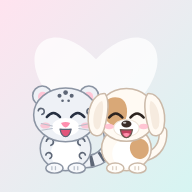
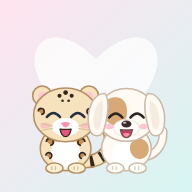
Stage 3: polish pass, and Livvie's new colors
- Livvie now has very light honey fur, black-and-brown rosettes and a
  little pink in her eyes (same drawing, new colors). The home-screen icon
  matches. Mud is a darker brown so it doesn't look like her spots.
- Springy, bouncy feedback on every button, card and close button.
- Little confetti celebrations in both girls' colors on happy moments:
  together moments, finished activities, learned tricks, granted wishes,
  favorite foods and new things appearing.
- Consistent layout: each girl's first button is in the same place in
  every room; on trips the names and the jar stay visible; the fridge
  panel shows whose pet it's for, like the closet and spa.

Claude-Session: https://claude.ai/code/session_017NGWNkHpGDYFDYHWiwXHXr

Changed region(s): [[0.1562, 0.4375, 0.5625, 0.9062], [0.5312, 0.6875, 0.5625, 0.7188]]

diff --git a/index.html b/index.html
@@ -69,43 +69,43 @@
      the script below (and art/README.md).
      ===================================================================== -->
 
-<!-- Livvie the snow leopard -->
+<!-- Livvie the snow leopard: very light honey fur, black and brown rosettes, a little pink in her eyes -->
 <template id="art-livvie">
 <svg class="pet-svg" viewBox="0 0 200 200" aria-hidden="true">
   <g class="tail">
-    <path d="M136 176 C 176 178, 196 146, 186 116 C 180 98, 162 96, 160 110" fill="none" stroke="#8b94a3" stroke-width="27" stroke-linecap="round"/>
-    <path d="M136 176 C 176 178, 196 146, 186 116 C 180 98, 162 96, 160 110" fill="none" stroke="#eef1f6" stroke-width="21" stroke-linecap="round"/>
-    <path d="M136 176 C 176 178, 196 146, 186 116 C 180 98, 162 96, 160 110" fill="none" stroke="#5d6676" stroke-width="21" stroke-dasharray="7 15" stroke-dashoffset="-12"/>
+    <path d="M136 176 C 176 178, 196 146, 186 116 C 180 98, 162 96, 160 110" fill="none" stroke="#b38f63" stroke-width="27" stroke-linecap="round"/>
+    <path d="M136 176 C 176 178, 196 146, 186 116 C 180 98, 162 96, 160 110" fill="none" stroke="#f6e3bd" stroke-width="21" stroke-linecap="round"/>
+    <path d="M136 176 C 176 178, 196 146, 186 116 C 180 98, 162 96, 160 110" fill="none" stroke="#33261e" stroke-width="21" stroke-dasharray="7 15" stroke-dashoffset="-12"/>
   </g>
   <g class="body">
-    <ellipse cx="100" cy="150" rx="50" ry="44" fill="#eef1f6" stroke="#8b94a3" stroke-width="3"/>
+    <ellipse cx="100" cy="150" rx="50" ry="44" fill="#f6e3bd" stroke="#b38f63" stroke-width="3"/>
     <ellipse cx="100" cy="160" rx="29" ry="30" fill="#ffffff"/>
-    <g fill="none" stroke="#5d6676" stroke-width="3.2" stroke-linecap="round">
+    <g fill="#c48f55" stroke="#33261e" stroke-width="3.2" stroke-linecap="round">
       <path d="M62 136 a7 7 0 1 1 9 8"/><path d="M61 163 a6 6 0 1 1 8 7"/>
       <path d="M138 136 a7 7 0 1 0 -9 8"/><path d="M139 163 a6 6 0 1 0 -8 7"/>
     </g>
-    <g fill="#5d6676"><circle cx="76" cy="121" r="2.6"/><circle cx="125" cy="121" r="2.6"/></g>
-    <g class="fluff" fill="#ffffff" stroke="#8b94a3" stroke-width="2.5" stroke-linejoin="round">
+    <g fill="#33261e"><circle cx="76" cy="121" r="2.6"/><circle cx="125" cy="121" r="2.6"/></g>
+    <g class="fluff" fill="#fbefd6" stroke="#b38f63" stroke-width="2.5" stroke-linejoin="round">
       <path d="M52 144 L40 147 L49 152 L40 158 L53 159Z"/><path d="M148 144 L160 147 L151 152 L160 158 L147 159Z"/>
     </g>
   </g>
   <g class="paws">
-    <ellipse cx="78" cy="189" rx="17" ry="10" fill="#f6f8fb" stroke="#8b94a3" stroke-width="3"/>
-    <ellipse cx="122" cy="189" rx="17" ry="10" fill="#f6f8fb" stroke="#8b94a3" stroke-width="3"/>
-    <path d="M73 186 v6 M80 186 v6 M117 186 v6 M124 186 v6" stroke="#b9c0cb" stroke-width="2.5" stroke-linecap="round"/>
+    <ellipse cx="78" cy="189" rx="17" ry="10" fill="#fbefd6" stroke="#b38f63" stroke-width="3"/>
+    <ellipse cx="122" cy="189" rx="17" ry="10" fill="#fbefd6" stroke="#b38f63" stroke-width="3"/>
+    <path d="M73 186 v6 M80 186 v6 M117 186 v6 M124 186 v6" stroke="#d9bf98" stroke-width="2.5" stroke-linecap="round"/>
   </g>
   <g class="head">
-    <circle cx="54" cy="46" r="19" fill="#eef1f6" stroke="#8b94a3" stroke-width="3"/>
-    <circle cx="146" cy="46" r="19" fill="#eef1f6" stroke="#8b94a3" stroke-width="3"/>
+    <circle cx="54" cy="46" r="19" fill="#f6e3bd" stroke="#b38f63" stroke-width="3"/>
+    <circle cx="146" cy="46" r="19" fill="#f6e3bd" stroke="#b38f63" stroke-width="3"/>
     <circle cx="55" cy="48" r="9.5" fill="#ffc6d6"/>
     <circle cx="145" cy="48" r="9.5" fill="#ffc6d6"/>
-    <ellipse cx="100" cy="84" rx="63" ry="53" fill="#eef1f6" stroke="#8b94a3" stroke-width="3"/>
+    <ellipse cx="100" cy="84" rx="63" ry="53" fill="#f6e3bd" stroke="#b38f63" stroke-width="3"/>
     <ellipse cx="100" cy="108" rx="27" ry="18" fill="#ffffff"/>
-    <g fill="#5d6676">
+    <g fill="#33261e">
       <circle cx="88" cy="46" r="4"/><circle cx="100" cy="40" r="4.6"/><circle cx="112" cy="46" r="4"/>
       <circle cx="94" cy="56" r="2.6"/><circle cx="106" cy="56" r="2.6"/>
     </g>
-    <g fill="none" stroke="#5d6676" stroke-width="3" stroke-linecap="round">
+    <g fill="#c48f55" stroke="#33261e" stroke-width="3" stroke-linecap="round">
       <path d="M46 76 a6 6 0 1 1 7 7"/><path d="M154 76 a6 6 0 1 0 -7 7"/>
     </g>
     <ellipse cx="60" cy="105" rx="10" ry="6" fill="#ffb3c8" opacity=".7"/>
@@ -113,8 +113,8 @@
     <g class="eyes-open">
       <ellipse cx="76" cy="84" rx="14.5" ry="17" fill="#273041"/>
       <ellipse cx="124" cy="84" rx="14.5" ry="17" fill="#273041"/>
-      <ellipse cx="76" cy="91" rx="9" ry="7.5" fill="#6aa9a0" opacity=".55"/>
-      <ellipse cx="124" cy="91" rx="9" ry="7.5" fill="#6aa9a0" opacity=".55"/>
+      <ellipse cx="76" cy="91" rx="9" ry="7.5" fill="#ff8fb8" opacity=".6"/>
+      <ellipse cx="124" cy="91" rx="9" ry="7.5" fill="#ff8fb8" opacity=".6"/>
       <circle cx="81" cy="77" r="5.8" fill="#fff"/><circle cx="71" cy="92" r="2.6" fill="#fff"/>
       <circle cx="129" cy="77" r="5.8" fill="#fff"/><circle cx="119" cy="92" r="2.6" fill="#fff"/>
     </g>
@@ -125,20 +125,20 @@
       <path d="M63 84 Q76 96 89 84"/><path d="M111 84 Q124 96 137 84"/>
     </g>
     <path d="M91 100 Q100 96 109 100 Q105 108 100 109 Q95 108 91 100Z" fill="#ff8fae"/>
-    <path class="mouth-closed" d="M100 109 Q95 117 88 113 M100 109 Q105 117 112 113" fill="none" stroke="#5d6676" stroke-width="3" stroke-linecap="round"/>
-    <path class="mouth-open" d="M89 112 Q100 113 111 112 Q108 127 100 127 Q92 127 89 112Z" fill="#e2557a" stroke="#5d6676" stroke-width="2.5" stroke-linejoin="round"/>
-    <g stroke="#b9c0cb" stroke-width="2" stroke-linecap="round">
+    <path class="mouth-closed" d="M100 109 Q95 117 88 113 M100 109 Q105 117 112 113" fill="none" stroke="#33261e" stroke-width="3" stroke-linecap="round"/>
+    <path class="mouth-open" d="M89 112 Q100 113 111 112 Q108 127 100 127 Q92 127 89 112Z" fill="#e2557a" stroke="#33261e" stroke-width="2.5" stroke-linejoin="round"/>
+    <g stroke="#d9bf98" stroke-width="2" stroke-linecap="round">
       <path d="M74 106 L52 101 M74 111 L53 114"/><path d="M126 106 L148 101 M126 111 L147 114"/>
     </g>
-    <g class="fluff" fill="#ffffff" stroke="#8b94a3" stroke-width="2.5" stroke-linejoin="round">
+    <g class="fluff" fill="#fbefd6" stroke="#b38f63" stroke-width="2.5" stroke-linejoin="round">
       <path d="M39 88 L26 90 L36 96 L25 102 L40 103Z"/><path d="M161 88 L174 90 L164 96 L175 102 L160 103Z"/>
       <path d="M88 35 L92 22 L98 31 L104 19 L110 34Z"/>
     </g>
   </g>
   <g class="tail-front">
-    <path d="M150 176 C 142 200, 72 202, 46 186" fill="none" stroke="#8b94a3" stroke-width="25" stroke-linecap="round"/>
-    <path d="M150 176 C 142 200, 72 202, 46 186" fill="none" stroke="#eef1f6" stroke-width="19" stroke-linecap="round"/>
-    <path d="M150 176 C 142 200, 72 202, 46 186" fill="none" stroke="#5d6676" stroke-width="19" stroke-dasharray="7 15"/>
+    <path d="M150 176 C 142 200, 72 202, 46 186" fill="none" stroke="#b38f63" stroke-width="25" stroke-linecap="round"/>
+    <path d="M150 176 C 142 200, 72 202, 46 186" fill="none" stroke="#f6e3bd" stroke-width="19" stroke-linecap="round"/>
+    <path d="M150 176 C 142 200, 72 202, 46 186" fill="none" stroke="#33261e" stroke-width="19" stroke-dasharray="7 15"/>
   </g>
 </svg>
 </template>

diff --git a/js/pictures.js b/js/pictures.js
@@ -32,7 +32,7 @@ const ICONS = {
   disco: '<svg viewBox="0 0 100 130"><line x1="50" y1="0" x2="50" y2="34" stroke="#9a94a8" stroke-width="3"/><circle cx="50" cy="80" r="44" fill="#c3cde3" stroke="#8d97b3" stroke-width="3"/><g stroke="#8d97b3" stroke-width="2" fill="none"><ellipse cx="50" cy="80" rx="44" ry="14"/><ellipse cx="50" cy="80" rx="44" ry="30"/><ellipse cx="50" cy="80" rx="14" ry="44"/><ellipse cx="50" cy="80" rx="30" ry="44"/></g><g fill="#fff"><rect x="28" y="56" width="9" height="9"/><rect x="58" y="70" width="9" height="9"/><rect x="40" y="92" width="9" height="9"/><rect x="66" y="98" width="7" height="7"/><rect x="22" y="84" width="7" height="7"/></g></svg>',
   seesawBase: '<svg viewBox="0 0 100 80" preserveAspectRatio="none"><path d="M50 6 L94 76 H6Z" fill="#c99a6b" stroke="#a8743f" stroke-width="5" stroke-linejoin="round"/><circle cx="50" cy="14" r="8" fill="#a8743f"/></svg>',
   nap: '<svg viewBox="0 0 100 100"><rect x="8" y="44" width="84" height="40" rx="18" fill="#d6e7ff" stroke="#7aa7e0" stroke-width="4"/><path d="M22 58 q28 10 56 0" fill="none" stroke="#a9c8f2" stroke-width="4" stroke-linecap="round"/><path d="M62 8 A17 17 0 1 0 82 30 A13 13 0 0 1 62 8Z" fill="#ffd54a"/><path d="M22 14 h14 l-14 16 h14" fill="none" stroke="#7aa7e0" stroke-width="5" stroke-linecap="round" stroke-linejoin="round"/></svg>',
-  hug: '<svg viewBox="0 0 100 100"><path d="M50 84 C 20 64, 10 46, 16 32 C 22 18, 42 16, 50 32 C 58 16, 78 18, 84 32 C 90 46, 80 64, 50 84Z" fill="#ff8fab" stroke="#f0668e" stroke-width="3"/><g fill="none" stroke-linecap="round"><path d="M6 52 C 18 76, 40 76, 52 62" stroke="#9aa3b2" stroke-width="15"/><path d="M6 52 C 18 76, 40 76, 52 62" stroke="#eef1f6" stroke-width="10"/><path d="M94 52 C 82 76, 60 76, 48 62" stroke="#cbb9a8" stroke-width="15"/><path d="M94 52 C 82 76, 60 76, 48 62" stroke="#fffaf3" stroke-width="10"/></g></svg>',
+  hug: '<svg viewBox="0 0 100 100"><path d="M50 84 C 20 64, 10 46, 16 32 C 22 18, 42 16, 50 32 C 58 16, 78 18, 84 32 C 90 46, 80 64, 50 84Z" fill="#ff8fab" stroke="#f0668e" stroke-width="3"/><g fill="none" stroke-linecap="round"><path d="M6 52 C 18 76, 40 76, 52 62" stroke="#b38f63" stroke-width="15"/><path d="M6 52 C 18 76, 40 76, 52 62" stroke="#f6e3bd" stroke-width="10"/><path d="M94 52 C 82 76, 60 76, 48 62" stroke="#cbb9a8" stroke-width="15"/><path d="M94 52 C 82 76, 60 76, 48 62" stroke="#fffaf3" stroke-width="10"/></g></svg>',
   book: '<svg viewBox="0 0 100 100"><path d="M50 26 C 38 16, 20 16, 8 22 V82 C 20 76, 38 76, 50 86 C 62 76, 80 76, 92 82 V22 C 80 16, 62 16, 50 26Z" fill="#fffdf8" stroke="#b0884f" stroke-width="5" stroke-linejoin="round"/><path d="M50 26 V86" stroke="#b0884f" stroke-width="4"/><path d="M18 36 h22 M18 48 h22 M18 60 h16 M60 36 h22 M60 48 h22" stroke="#e6d3ae" stroke-width="4" stroke-linecap="round"/><svg x="61" y="54" width="22" height="22" viewBox="0 0 100 100"><path d="M50 30 C 42 12, 18 14, 12 30 C 6 46, 18 66, 50 88Z" style="fill:var(--L)"/><path d="M50 30 C 58 12, 82 14, 88 30 C 94 46, 82 66, 50 88Z" style="fill:var(--R)"/></svg></svg>',
   speaker: '<svg viewBox="0 0 100 100"><path d="M14 38h16l22-18v60L30 62H14z" fill="#e0a43a" stroke="#e0a43a" stroke-width="4" stroke-linejoin="round"/><path d="M64 36q10 14 0 28M75 25q19 25 0 50" stroke="#e0a43a" stroke-width="7" fill="none" stroke-linecap="round"/></svg>',
   prev: '<svg viewBox="0 0 100 100"><path d="M64 14 L28 50 L64 86" fill="none" stroke="#b0884f" stroke-width="14" stroke-linecap="round" stroke-linejoin="round"/></svg>',
@@ -59,7 +59,7 @@ const ICONS = {
   towel: '<svg viewBox="0 0 100 100"><path d="M10 12 H90" stroke="#b9a07e" stroke-width="7" stroke-linecap="round"/><rect x="18" y="14" width="64" height="74" rx="8" style="fill:var(--c, #8fc8ff)" stroke="#fff" stroke-width="4"/><path d="M18 70 H82 M18 77 H82" stroke="#fff" stroke-width="4"/></svg>',
   brush: '<svg viewBox="0 0 100 100"><path d="M28 30 v-14 M38 30 v-16 M48 30 v-16 M58 30 v-16 M68 30 v-14" stroke="#c9b8a8" stroke-width="4" stroke-linecap="round"/><rect x="20" y="28" width="56" height="26" rx="10" fill="#ff9ec4" stroke="#e0709c" stroke-width="4"/><rect x="41" y="52" width="14" height="40" rx="7" fill="#c99a6b" stroke="#a8743f" stroke-width="3"/><path d="M82 30 l3 -8 l3 8 l8 3 l-8 3 l-3 8 l-3 -8 l-8 -3z" fill="#ffd23f"/></svg>',
   duck: '<svg viewBox="0 0 100 100"><ellipse cx="46" cy="66" rx="36" ry="21" fill="#ffd23f" stroke="#e0a800" stroke-width="3"/><circle cx="64" cy="38" r="18" fill="#ffd23f" stroke="#e0a800" stroke-width="3"/><path d="M79 40 L96 44 L79 49Z" fill="#ff9a4d" stroke="#e07a2a" stroke-width="2" stroke-linejoin="round"/><circle cx="68" cy="34" r="3.4" fill="#2d2420"/><path d="M22 60 q14 12 30 0" fill="none" stroke="#e0a800" stroke-width="3" stroke-linecap="round"/></svg>',
-  mud: '<svg viewBox="0 0 100 100"><path d="M50 12 C 64 10, 70 26, 82 26 C 94 28, 92 46, 84 54 C 92 64, 82 82, 66 78 C 58 90, 38 90, 32 80 C 16 84, 8 68, 16 58 C 6 48, 12 30, 28 32 C 30 20, 40 12, 50 12Z" fill="#9b6b43" opacity=".9"/><circle cx="90" cy="76" r="6" fill="#9b6b43" opacity=".85"/><circle cx="10" cy="18" r="5" fill="#9b6b43" opacity=".85"/><ellipse cx="42" cy="36" rx="9" ry="5" fill="#b8865c" opacity=".7"/></svg>',
+  mud: '<svg viewBox="0 0 100 100"><path d="M50 12 C 64 10, 70 26, 82 26 C 94 28, 92 46, 84 54 C 92 64, 82 82, 66 78 C 58 90, 38 90, 32 80 C 16 84, 8 68, 16 58 C 6 48, 12 30, 28 32 C 30 20, 40 12, 50 12Z" fill="#6f513b" opacity=".9"/><circle cx="90" cy="76" r="6" fill="#6f513b" opacity=".85"/><circle cx="10" cy="18" r="5" fill="#6f513b" opacity=".85"/><ellipse cx="42" cy="36" rx="9" ry="5" fill="#b8865c" opacity=".7"/></svg>',
   // ----- backyard -----
   trampoline: '<svg viewBox="0 0 100 100"><path d="M20 64 L14 90 M80 64 L86 90 M40 68 L38 90 M60 68 L62 90" stroke="#8b94a3" stroke-width="5" stroke-linecap="round"/><ellipse cx="50" cy="58" rx="43" ry="12" fill="#5b6fb5" stroke="#ff9ec4" stroke-width="6"/><path d="M50 42 V12 M39 21 L50 10 L61 21" stroke="#ffb020" stroke-width="6" fill="none" stroke-linecap="round" stroke-linejoin="round"/></svg>',
   rainbow: '<svg viewBox="0 0 100 100"><g fill="none" stroke-width="7.5"><path d="M8 82 A42 42 0 0 1 92 82" stroke="#ff8a8a"/><path d="M15.5 82 A34.5 34.5 0 0 1 84.5 82" stroke="#ffb36b"/><path d="M23 82 A27 27 0 0 1 77 82" stroke="#ffe27a"/><path d="M30.5 82 A19.5 19.5 0 0 1 69.5 82" stroke="#9be38a"/><path d="M38 82 A12 12 0 0 1 62 82" stroke="#8fc8ff"/></g><circle cx="12" cy="88" r="7" style="fill:var(--L)" stroke="#fff" stroke-width="2"/><circle cx="88" cy="88" r="7" style="fill:var(--R)" stroke="#fff" stroke-width="2"/></svg>',

diff --git a/styles.css b/styles.css
@@ -155,9 +155,10 @@ body:not([data-scene="play"]):not([data-scene="title"]) .tag, .pet.asleep .tag {
 /* ---------- each girl's button strip ---------- */
 .column {
   position: absolute; top: 0; bottom: 0; width: var(--col); z-index: 20;
-  display: flex; flex-direction: column; align-items: center; justify-content: center; gap: 2.2vmin;
-  padding: calc(11vmin + var(--safe-top)) 0 3vmin;
+  display: flex; flex-direction: column; align-items: center; justify-content: flex-start; gap: 2.2vmin;
+  padding: calc(12vmin + var(--safe-top)) 0 3vmin;     /* the first button is always in the same place */
 }
+.column.big { justify-content: center; padding-top: calc(11vmin + var(--safe-top)); }
 .column::before { content: ''; position: absolute; inset: 0; background: var(--c); opacity: .2; z-index: -1; }
 .column.left  { left: 0;  --c: var(--L); --c-dark: var(--L-dark); --c-light: var(--L-light); }
 .column.right { right: 0; --c: var(--R); --c-dark: var(--R-dark); --c-light: var(--R-light); }
@@ -169,12 +170,13 @@ body:not([data-scene="play"]):not([data-scene="title"]) .tag, .pet.asleep .tag {
   box-shadow: 0 1.2vmin 0 var(--c-dark);
   display: flex; flex-direction: column; align-items: center; justify-content: center;
   color: var(--c-dark); font: 900 3.4vmin/1 var(--font);
-  transition: transform .08s ease, box-shadow .08s ease, opacity .4s ease;
+  transition: transform .4s cubic-bezier(.3,1.9,.5,1), box-shadow .2s ease, opacity .4s ease;
 }
-.btn .ico { width: 9.5vmin; height: 9.5vmin; pointer-events: none; }
+.btn .ico { width: 9.5vmin; height: 9.5vmin; pointer-events: none; transition: transform .5s cubic-bezier(.3,2.2,.5,1); }
+.btn.down .ico { transform: scale(.86) rotate(-6deg); transition-duration: .07s; }
 .btn .ico > svg { width: 100%; height: 100%; overflow: visible; }
 .btn .lbl { margin-top: .5vmin; pointer-events: none; text-align: center; line-height: 1.05; }
-.btn.down { transform: translateY(.9vmin) scale(.96); box-shadow: 0 .3vmin 0 var(--c-dark); }
+.btn.down { transform: translateY(.9vmin) scale(.93); box-shadow: 0 .3vmin 0 var(--c-dark); transition-duration: .07s; }
 .column.big .btn { width: 17vmin; height: 46vmin; border-radius: 6vmin; }
 .column.big .btn .ico { width: 13vmin; height: 13vmin; }
 .column.big .btn .lbl { font-size: 4vmin; margin-top: 1.5vmin; }
@@ -391,7 +393,7 @@ body[data-scene="climb"] #dots { display: none; }
 .rainbow svg { width: 100%; height: 100%; overflow: visible; }
 
 /* ---------- playroom: trick cards and presents ---------- */
-.column.cards { gap: 1.2vmin; padding-top: calc(9.5vmin + var(--safe-top)); }
+.column.cards { gap: 1.2vmin; padding-top: calc(12vmin + var(--safe-top)); }
 .column.cards .btn { height: 11vmin; border-radius: 3vmin; flex-direction: row; justify-content: flex-start; gap: .8vmin; padding: 0 1vmin; box-shadow: 0 .9vmin 0 var(--c-dark); }
 .column.cards .btn .ico { width: 6.4vmin; height: 6.4vmin; flex: none; }
 .column.cards .btn .lbl { margin: 0; font-size: 3.1vmin; text-align: left; }
@@ -561,7 +563,7 @@ body:not([data-scene="play"]) #midbtns { opacity: 0; pointer-events: none; }
 .scard.down { transform: scale(.95); }
 
 /* up to 6 buttons on a girl's edge */
-.column.many { gap: 1.3vmin; padding-top: calc(10vmin + var(--safe-top)); }
+.column.many { gap: 1.3vmin; padding-top: calc(12vmin + var(--safe-top)); }
 .column.many .btn { width: 15.5vmin; height: 12.4vmin; border-radius: 3.6vmin; box-shadow: 0 .9vmin 0 var(--c-dark); }
 .column.many .btn .ico { width: 7.2vmin; height: 7.2vmin; }
 .column.many .btn .lbl { font-size: 2.9vmin; }
@@ -724,7 +726,8 @@ body:not([data-scene="play"]) #midbtns { opacity: 0; pointer-events: none; }
 #trips .trip-grid { display: grid; grid-template-columns: repeat(3, 1fr); gap: 3vmin; width: min(74vw, 110vmin); height: 46vmin; }
 #trips .map-x { position: absolute; right: calc(var(--col) + 1vmin); top: calc(1vmin + var(--safe-top)); width: 10vmin; height: 10vmin; padding: 2.4vmin; border-radius: 50%; background: #fff; box-shadow: 0 .8vmin 0 rgba(0,0,0,.15); }
 #trips .map-x svg { width: 100%; height: 100%; }
-.trip { pointer-events: none; overflow: hidden; }
+.trip { position: absolute; inset: 0; pointer-events: none; overflow: hidden; }
+body.on-trip #world > .thing, body.on-trip #world > .visitor { display: none; }
 .trip > * { position: absolute; }
 .trip .tsky { inset: 0; }
 .trip .tsky.beach { background: linear-gradient(#9fdcff, #e6f7ff 55%); }
@@ -812,3 +815,20 @@ body.october .room .jack { display: block; }
 .bcake .flame { animation: flicker .3s ease-in-out infinite alternate; transform-box: fill-box; transform-origin: 50% 100%; }
 @keyframes flicker { from { transform: scale(1, 1); } to { transform: scale(.85, 1.12); } }
 body:not([data-scene="play"]) .request { display: none; }   /* waits for the activity to finish */
+
+/* =====================================================================
+   POLISH: springy buttons everywhere, and little celebrations
+   ===================================================================== */
+.cbtn, .scard, .pbtn, .ptile, .book-btn, .round-btn, .request .rdone, .spanel-x, .map-x {
+  transition: transform .4s cubic-bezier(.3,1.9,.5,1), box-shadow .2s ease;
+}
+.cbtn.down, .scard.down, .pbtn.down, .ptile.down, .book-btn.down, .round-btn.down, .request .rdone.down, .spanel-x.down, .map-x.down { transition-duration: .07s; }
+.scard.down { transform: scale(.9); }
+.cbtn.down { transform: translateY(.8vmin) scale(.92); }
+.spanel-x.down, .map-x.down { transform: scale(.85); }
+.scard.on { animation: cardon .45s cubic-bezier(.3,1.9,.5,1); }
+@keyframes cardon { 0% { transform: scale(.9); } 100% { transform: scale(1); } }
+.confetti { position: absolute; z-index: 36; width: 1.8vmin; height: 1.1vmin; border-radius: .4vmin; pointer-events: none; }
+.confetti.round { width: 1.5vmin; height: 1.5vmin; border-radius: 50%; }
+.thing.puddle.new { animation: none; }
+.visitor .vname { border: .5vmin solid #e6dccb; font-size: 3.4vmin; }

diff --git a/js/core.js b/js/core.js
@@ -617,6 +617,23 @@ function sparkles(x, y, n = 8, colors = ['#ffd23f', '#ff7eb6', '#5aa9ff', '#6cc5
     ], { duration: 900, easing: 'ease-out', fill: 'both' }).then(() => s.remove());
   }
 }
+/* A little celebration: confetti in both girls' colors, popping up and floating down. */
+function celebrate(x, y, n = 12) {
+  const cs = getComputedStyle(document.documentElement);
+  const colors = [cs.getPropertyValue('--L').trim(), cs.getPropertyValue('--R').trim(), '#ffd23f', '#ff8fb8'];
+  for (let i = 0; i < n; i++) {
+    const c = el('div', 'confetti' + (i % 3 === 0 ? ' round' : ''));
+    c.style.left = x + 'px'; c.style.top = y + 'px';
+    c.style.background = colors[i % colors.length];
+    world.append(c);
+    const dx = rand(-16, 16), up = rand(10, 22), spin = rand(-540, 540);
+    animate(c, [
+      { transform: 'translate(-50%,-50%) translate(0,0) rotate(0)', opacity: 1 },
+      { transform: `translate(-50%,-50%) translate(${dx * 0.6}vmin, ${-up}vmin) rotate(${spin * 0.5}deg)`, opacity: 1, offset: 0.35 },
+      { transform: `translate(-50%,-50%) translate(${dx}vmin, ${-up + 14}vmin) rotate(${spin}deg)`, opacity: 0 },
+    ], { duration: rand(1300, 1900), delay: i * 18, easing: 'cubic-bezier(.2,.7,.4,1)', fill: 'both' }).then(() => c.remove());
+  }
+}
 /* A speech bubble above a pet: "Thank you, Leah!" (each word can be tapped). */
 function sayBubble(p, text, ms = 2800) {
   p.root.querySelectorAll('.say').forEach(b => b.remove());
@@ -783,6 +800,8 @@ function togetherMoment(type) {
   S.together++;
   logDay(type);
   addHeart();
+  const m = midPets();
+  celebrate(m.x, m.y, 10);
   checkUnlocks();
   save();
   setTimeout(runQueue, 1600);
@@ -1336,7 +1355,7 @@ function layoutSeesaw(g) {
 
 /* high five paws */
 const PAWS = {
-  left:  { fur: '#eef1f6', line: '#8b94a3', pad: '#ffc6d6' },
+  left:  { fur: '#f6e3bd', line: '#b38f63', pad: '#ffc6d6' },
   right: { fur: '#fffaf3', line: '#cbb9a8', pad: '#f3b9a8' },
 };
 function pawSvg(side) {
@@ -1408,6 +1427,7 @@ function grantWish(p, act) {
   if (b) {
     const r = b.getBoundingClientRect();
     sparkles(r.left + r.width / 2, r.top + r.height / 2, 12);
+    celebrate(r.left + r.width / 2, r.top + r.height / 2, 6);
   }
   clearWish(p, true);
   floatHearts(p, 4);

diff --git a/js/trips.js b/js/trips.js
@@ -109,8 +109,11 @@ ACTIVITIES.trip = {
     await fadePets(false);
     Sound.play('vroom');
     await tween(1100, t => { car.style.left = W() / 2 + t * t * W() * 0.8 + 'px'; });
-    const bg = actProp(a, placeMarkup(place), { left: '0', top: '0', right: '0', bottom: '0' }, 6);
-    bg.classList.add('trip', 'trip-' + place);
+    // the place's scenery goes behind everything (like a room), so names and the jar still show
+    const bg = el('div', 'trip trip-' + place, placeMarkup(place));
+    $('#rooms').append(bg);
+    document.body.classList.add('on-trip');
+    a.cleanup.push(() => { bg.remove(); document.body.classList.remove('on-trip'); });
     a.data.bg = bg;
     await animate(bg, [{ opacity: 0 }, { opacity: 1 }], { duration: 500, fill: 'forwards' });
     await tween(1100, t => { car.style.left = -W() * 0.3 + (1 - (1 - t) * (1 - t)) * W() * 0.8 + 'px'; });

diff --git a/js/bathroom.js b/js/bathroom.js
@@ -147,7 +147,7 @@ ACT_HANDLERS.teeth = async side => {
    THE BLOW DRYER: the fur poofs up big and funny, then settles
    ===================================================================== */
 function poofSvg(side) {
-  const [fill, stroke] = PET_ART[side].awake ? ['#ffffff', '#d9d3e6'] : side === 'left' ? ['#eef1f6', '#8b94a3'] : ['#fffaf3', '#cbb9a8'];
+  const [fill, stroke] = PET_ART[side].awake ? ['#ffffff', '#d9d3e6'] : side === 'left' ? ['#f6e3bd', '#b38f63'] : ['#fffaf3', '#cbb9a8'];
   let puffs = '';
   for (let i = 0; i < 18; i++) {
     const a = (i / 18) * Math.PI * 2;

diff --git a/js/kitchen.js b/js/kitchen.js
@@ -63,6 +63,7 @@ ACT_HANDLERS.fridge = side => {
   Sound.play('fridge');
   openPanel(side, {
     cols: 3,
+    head: side,
     items: fridgeItems(),
     onPick: key => {
       if (FOODS[key].garden) { S.fridge[key] = Math.max(0, (S.fridge[key] || 0) - 1); save(); }
@@ -80,6 +81,8 @@ EAT_HOOKS.push((side, food) => {
   Sound.play('favorite');
   sayBubble(p, 'My favorite!', 2200);
   floatHearts(p, 5);
+  const m = petPoint(p, 0.5, 0.3);
+  celebrate(m.x, m.y, 8);
   petAnim(p, DANCE_GROOVE, { duration: 2000 });
 });
 

diff --git a/js/panels.js b/js/panels.js
@@ -82,6 +82,7 @@ async function endActivity(done, bookType) {
     Sound.play('yay');
     const m = midPets();
     sparkles(m.x, m.y, 14);
+    celebrate(m.x, m.y, 18);
     SIDES.forEach(s => {
       mood(pets[s], 'happy', 2000);
       petAnim(pets[s], [{ transform: 'translateY(0)' }, { transform: 'translateY(-12%)' }, { transform: 'translateY(0)' }], { duration: 600, iterations: 2, easing: 'ease-out' });

diff --git a/js/newthings.js b/js/newthings.js
@@ -45,6 +45,7 @@ function introduce(n, quiet) {
   renderFeatureClasses();
   if (!quiet) {
     showHint(n.icon, n.word, true);
+    setTimeout(() => celebrate(W() / 2, H() * 0.46, 10), 250);
     renderColumns();
     renderCenter();
     if (n.onIntro) n.onIntro();

diff --git a/js/house.js b/js/house.js
@@ -524,6 +524,7 @@ async function trickCard(side, key) {
   Sound.play('unlock');
   const m = petPoint(p, 0.5, 0.35);
   sparkles(m.x, m.y, 16);
+  celebrate(m.x, m.y, 12);
   floatHearts(p, 3);
   sayBubble(p, 'I can ' + tr.word + '!');
   renderTrickList(side);
